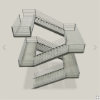
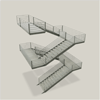
add exposure setting for each model

Changed region(s): [[0.09, 0.09, 0.87, 0.96], [0.96, 0.96, 0.99, 0.99]]

diff --git a/js/custem.js b/js/custem.js
@@ -194,6 +194,7 @@ async function modelProjectManager(clicked) {
 				modelInfo[8].typer = setTimeout(async () => startTypeOut(modelInfo[8], ModelProjects[ProjectIndex].mats, 30), 620),
 				
 				// The line below delays the loading of a model in order to avoid the framerate drop that comes with trying to load it.
+				modelViewer.showPoster(),
 				setTimeout(async () => {
 
 					modelViewer.src =  `3DProjects/${ModelProjects[ProjectIndex].folder}/${ModelProjects[ProjectIndex].model}`;
@@ -201,6 +202,7 @@ async function modelProjectManager(clicked) {
 						if(modelViewer.loaded) {
 							modelViewer.resetTurntableRotation();
 							modelViewer.cameraOrbit = ModelProjects[ProjectIndex].initialOrbit;
+							modelViewer.setAttribute("exposure", ModelProjects[ProjectIndex].exposure);
 							clearInterval(checkload);
 						}
 					}, 50);

diff --git a/index.html b/index.html
@@ -334,7 +334,6 @@
 							auto-rotate
 							camera-controls
 							shadow-intensity="1"
-							exposure="1.2"
 							loading="lazy"
 							>
 								<div id="poster" slot="poster"></div>
